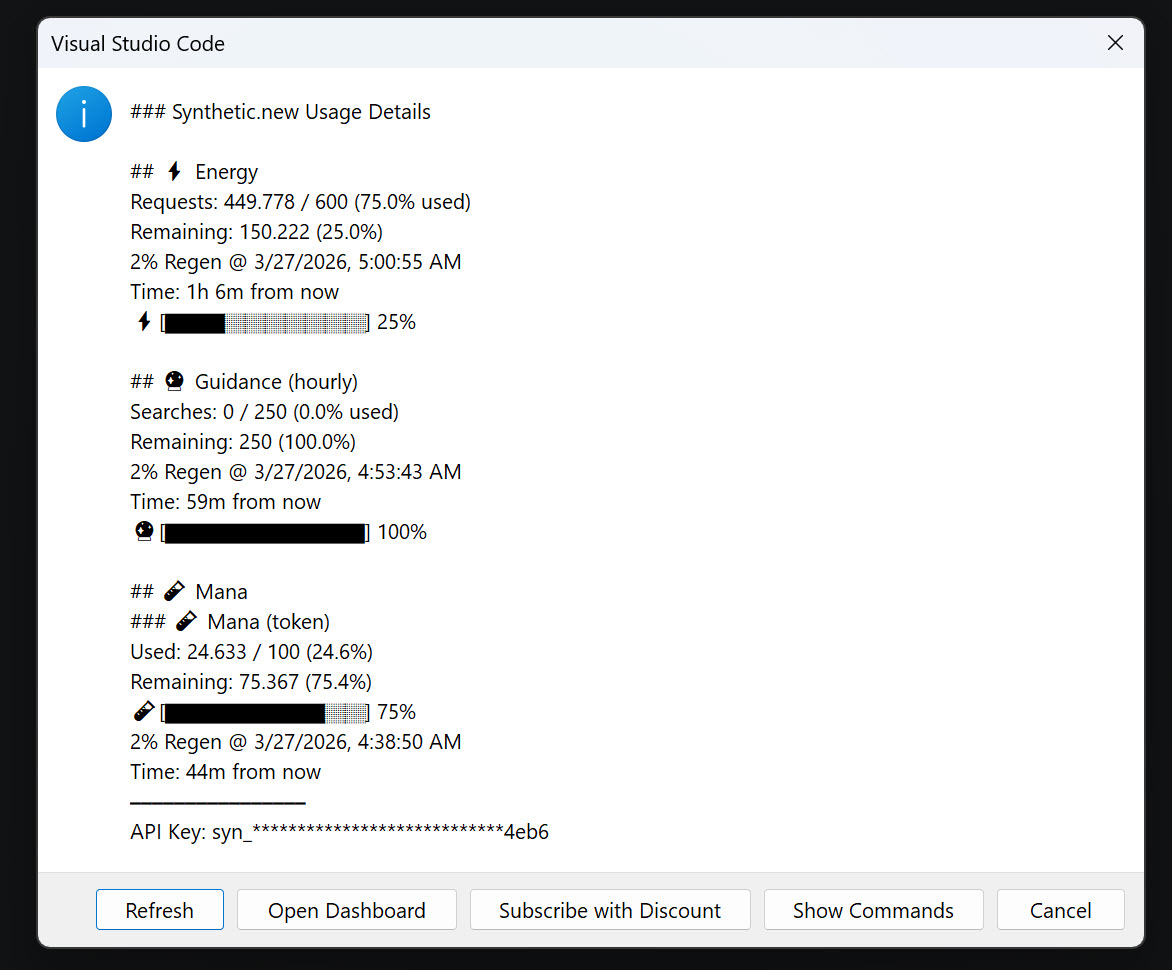
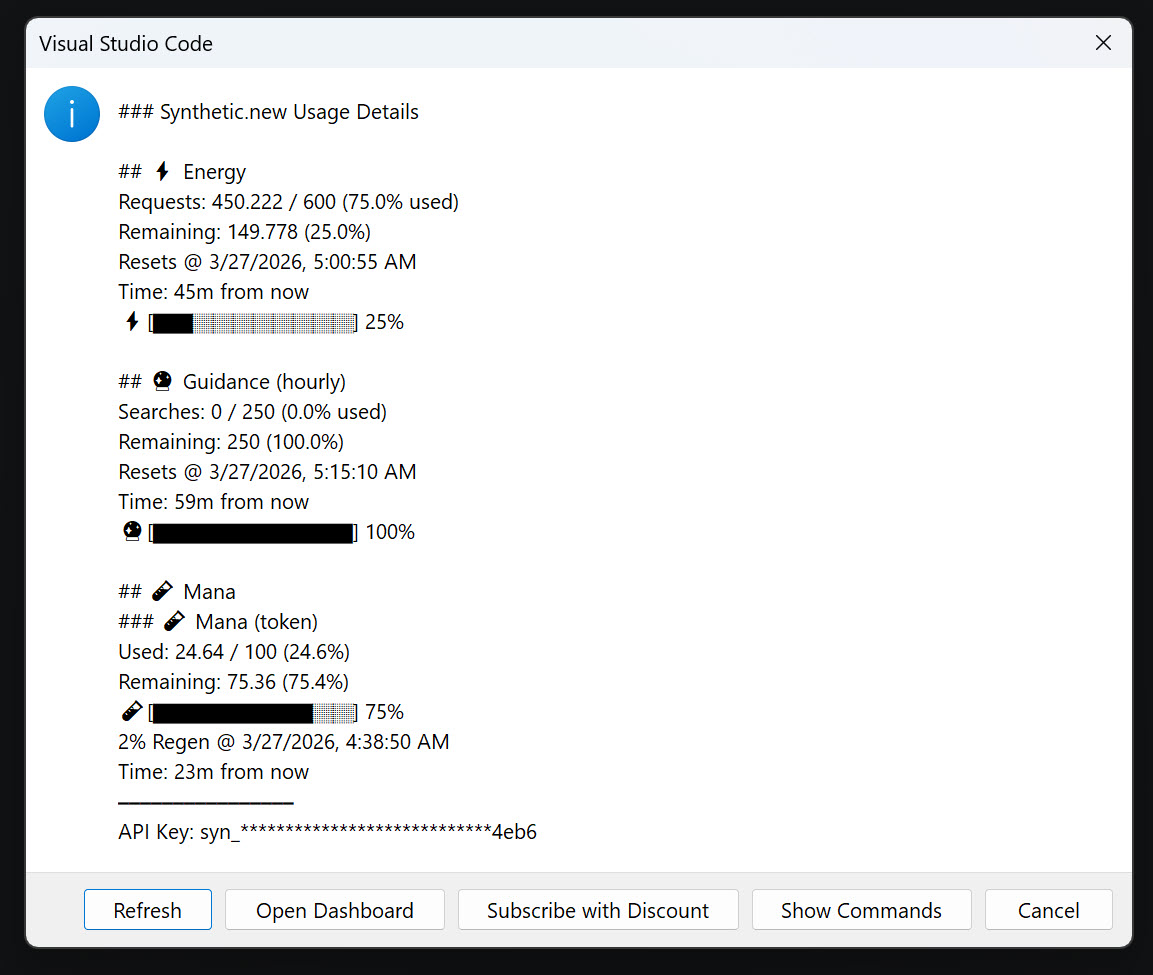
~ [ update regeneration text display format ]:
🐛 fix(ui): update regeneration label text

- replace "2% Regen" with "Resets @" in usage sections
- adjust countdown timers for quota tracking
- align readme text with updated statusbar screenshots

Changed region(s): [[0.0937, 0.1546, 0.4683, 0.866], [0.0, 0.0, 0.9991, 0.9897]]

diff --git a/README.md b/README.md
@@ -124,29 +124,29 @@ Hover over the status bar to see detailed category breakdowns with visual progre
 ### Synthetic.new Usage Details
 
 ## ⚡ Energy
-Requests: 449.778 / 600 (75.0% used)
-Remaining: 150.222 (25.0%)
-2% Regen @ 3/27/2026, 5:00:54 AM
-Time: 1h 6m from now
-⚡[███░░░░░░░] 25%
+Requests: 450.222 / 600 (75.0% used)
+Remaining: 149.778 (25.0%)
+Resets @ 3/27/2026, 5:00:55 AM
+Time: 44m from now
+⚡[██░░░░░░░░] 25%
 
 ## 🔮 Guidance (hourly)
 Searches: 0 / 250 (0.0% used)
 Remaining: 250 (100.0%)
-2% Regen @ 3/27/2026, 4:54:43 AM
+Resets @ 3/27/2026, 5:16:11 AM
 Time: 59m from now
 🔮[██████████] 100%
 
 ## 🧪 Mana
 ### 🧪 Mana (token)
-Used: 24.636 / 100 (24.6%)
-Remaining: 75.364 (75.4%)
+Used: 24.643 / 100 (24.6%)
+Remaining: 75.357 (75.4%)
 🧪[████████░░] 75%
 2% Regen @ 3/27/2026, 4:38:50 AM
-Time: 43m from now
+Time: 21m from now
 ━━━━━━━━━━━━━━━━
 API Key: syn_****************************4eb6
-Timestamp: 2026-03-27T07:54:53.052Z
+Timestamp: 2026-03-27T08:16:54.932Z
 ```
 
 - `█` (filled block): Represents used quota
